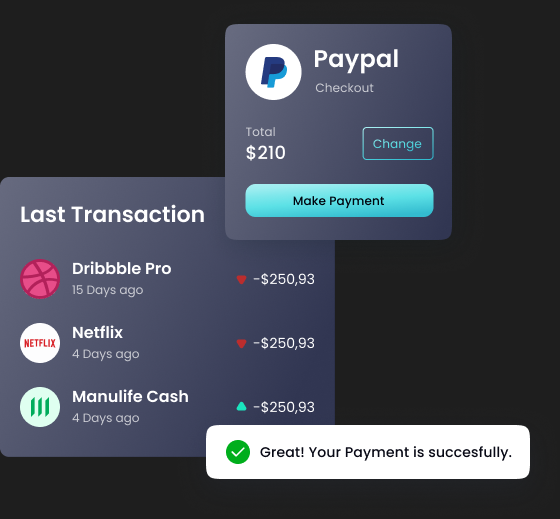
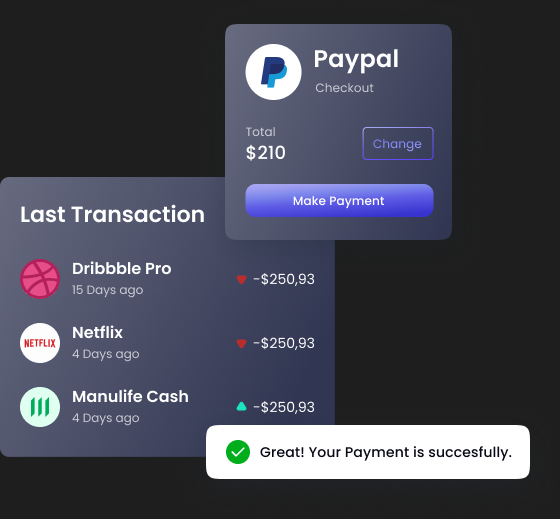
css changed

Changed region(s): [[0.425, 0.3391, 0.7893, 0.4316], [0.6375, 0.2466, 0.7893, 0.3083]]

diff --git a/src/components/Business.jsx b/src/components/Business.jsx
@@ -1,8 +1,16 @@
-import React from 'react'
+import { features } from "../constants";
+import styles, { layout } from "../style";
+import Button from './Button';
 
 const Business = () => {
   return (
-    <div>Business</div>
+    <section id="features" className={layout.section}>
+      <div className={layout.sectionInfo}>
+        <h2 className={styles.heading2}>You do the business, <br className="sm:block hidden"/> we’ll handle the money.</h2>
+        <p className={`${styles.paragraph} max-w-[470px] mt-5`}>With the right credit card, you can improve your financial life by building credit, earning rewards and saving money. But with hundreds of credit cards on the market.</p>
+        <Button styles="mt-10" />
+      </div>
+    </section>
   )
 }
 

diff --git a/src/index.css b/src/index.css
@@ -64,14 +64,14 @@
 }
 
 .bg-purple-gradient{
-  background: radial-gradient(
-    64.18% 64.18% at 71.16% 35.69%,
-    #c1c5ff 0.89%,
-    #aab0fc 10%,
-    #989ee9 20%,
-    #6a78e6 55.12%,
-    #626be9 71.54%,
-    #675df4 100%
+  background: linear-gradient(
+    157.81deg,
+    #dedefa -43.27%,
+    #becaf5 -21.24%,
+    #9da0f0 12.19%,
+    #7d7deb 29.82%,
+    #655ce6 51.94%,
+    #3338cf 90.29%
   );
 }
 

diff --git a/src/components/Button.jsx b/src/components/Button.jsx
@@ -1,8 +1,10 @@
 import React from 'react'
 
-const Button = () => {
+const Button = ({ styles }) => {
   return (
-    <div>Button</div>
+    <button type='button' className={`py-4 px-6 bg-purple-gradient rounded-lg font-poppins font-medium text-[18px] text-white outline-none ${styles}`}>
+      Get Started
+    </button>
   )
 }
 
